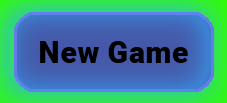
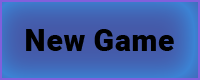
menu buttons

diff --git a/utils.c b/utils.c
@@ -54,8 +54,7 @@ SDL_Surface *load_image(char filename[], int colorKey)
         SDL_FreeSurface(loadedImage);
         if (colorKey)
         {
-            Uint32 colorkey = SDL_MapRGB(optimizedImage->format, 0, 0, 0);
-            SDL_SetColorKey(optimizedImage, SDL_SRCCOLORKEY, colorkey);
+            SDL_SetColorKey(optimizedImage, SDL_SRCCOLORKEY, SDL_MapRGB(optimizedImage->format, 0, 0, 0));
         }
     }
     else
@@ -162,12 +161,12 @@ Uint32 time_left(void)
 
 void loadMenuFiles()
 {
-    menu1 = load_image("assets/png/new.png", 1);
-    menu2 = load_image("assets/png/settings.png", 1);
-    menu3 = load_image("assets/png/exit.png", 1);
-    menu1Hover = load_image("assets/png/new_hover.png", 1);
-    menu2Hover = load_image("assets/png/settings_hover.png", 1);
-    menu3Hover = load_image("assets/png/exit_hover.png", 1);
+    menu1 = load_image("assets/png/buttons/ng_ns.png", 0);
+    menu2 = load_image("assets/png/buttons/s_ns.png", 0);
+    menu3 = load_image("assets/png/buttons/q_ns.png", 0);
+    menu1Hover = load_image("assets/png/buttons/ng_h.png", 0);
+    menu2Hover = load_image("assets/png/buttons/s_h.png", 0);
+    menu3Hover = load_image("assets/png/buttons/q_h.png", 0);
 }
 
 void initMenu(int menuSelect)
